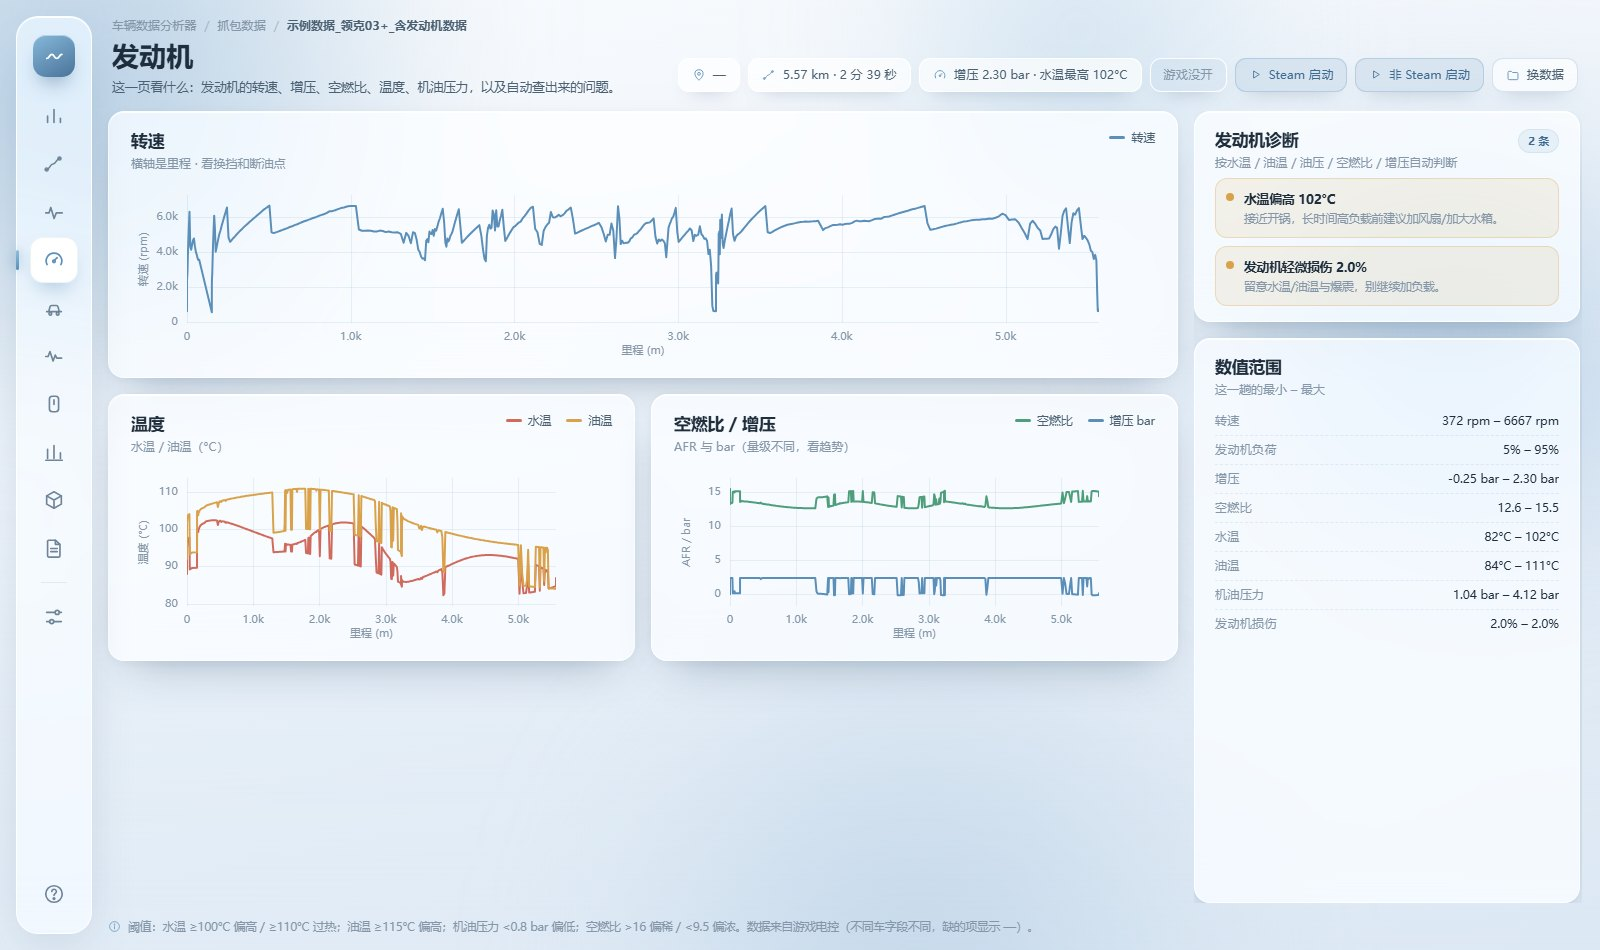
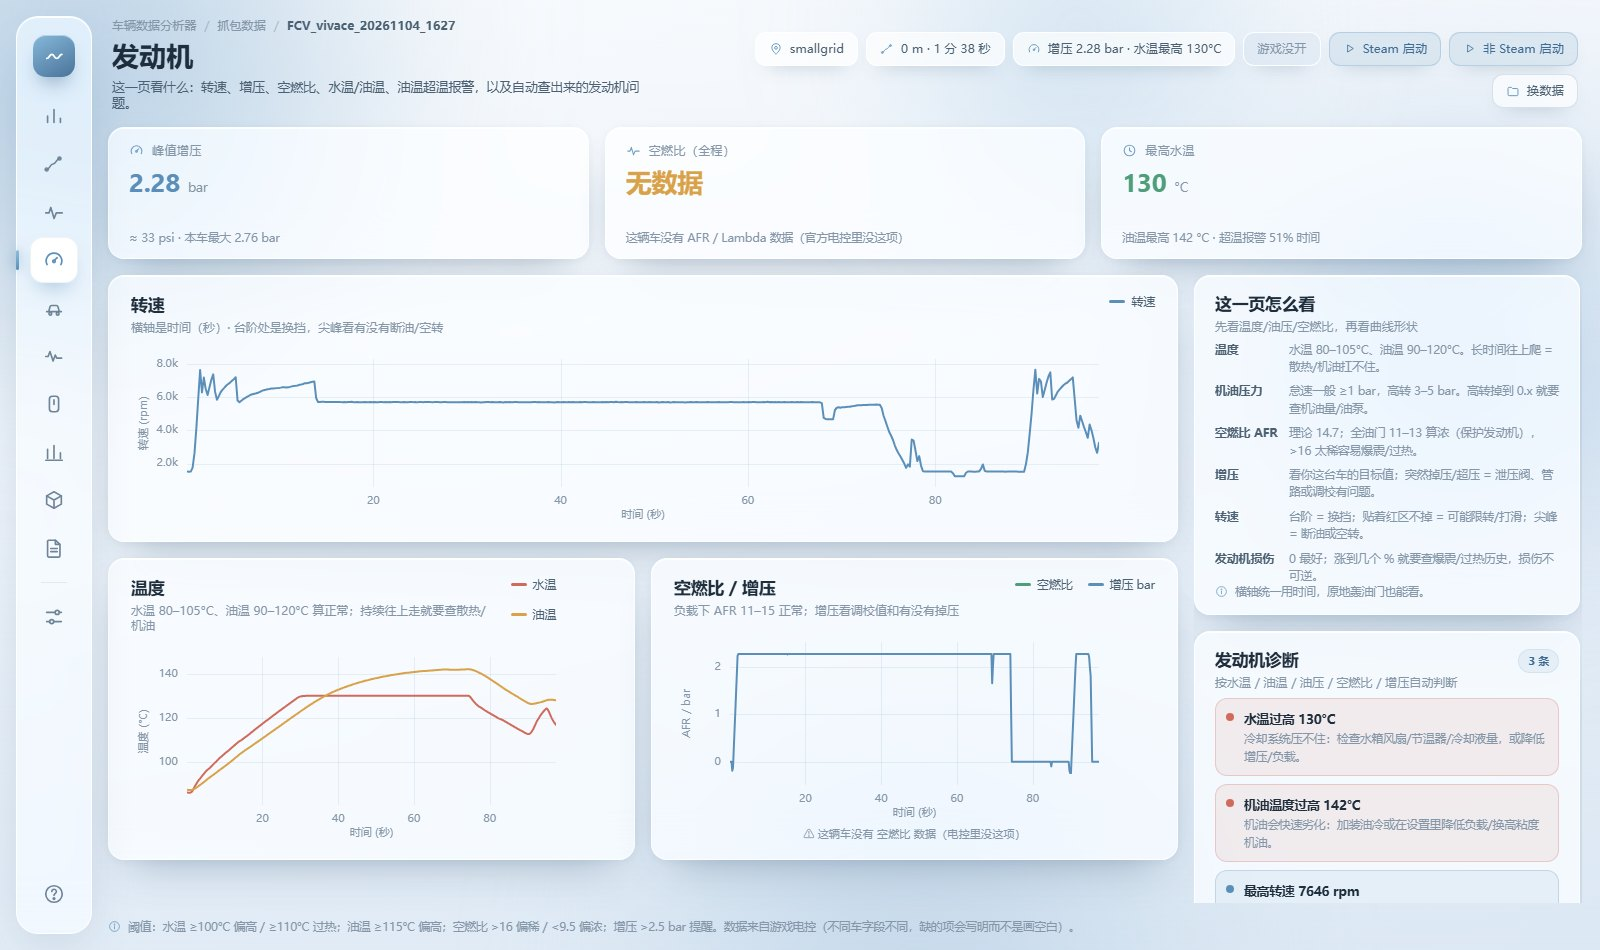
fix(engine): 时间轴 + 怎么看说明 + 按官方单位(PSI/油温报警)修正映射

diff --git a/webui_parts/p_engine.py b/webui_parts/p_engine.py
@@ -10,7 +10,7 @@ LABEL = "发动机"
 ICON = "gauge"
 TITLE = "发动机"
 BADGE = ""
-SUB = "这一页看什么：发动机的转速、增压、空燃比、温度、机油压力，以及自动查出来的问题。"
+SUB = "这一页看什么：转速、增压、空燃比、水温/油温、油温超温报警，以及自动查出来的发动机问题。"
 ORDER = 3.5
 
 
@@ -49,10 +49,13 @@ def _stats_html(d):
     from .common import IC
     eng = d.get("engine") or {}
     st = eng.get("stats") or {}
+    fields = eng.get("fields") or {}
     boost = st.get("boost") or {}
+    boost_psi = st.get("boost_psi") or {}
     afr = st.get("afr") or {}
     water = st.get("water") or {}
-    oilp = st.get("oilp") or {}
+    oil = st.get("oil") or {}
+    oa = st.get("oilalarm") or {}
     rpm = st.get("rpm") or {}
     cards = []
 
@@ -65,14 +68,36 @@ def _stats_html(d):
             % (tone, IC[icon], label, value, unit, foot))
 
     card("#5B8FB9", "gauge", "峰值增压", _fmt(boost.get("max"), "", 2), "bar",
-         "@ 全程最大值" if boost else "这份数据没有增压字段")
+         ("≈ %.0f psi · 本车最大 %.2f bar" % (boost_psi.get("max", 0),
+                                             (st.get("boostmax") or {}).get("bar", 0))) if boost
+         else "这辆车没有增压数据（自然吸气/柴油 NA 常见）")
     card("#D9A24A", "pulse", "空燃比（全程）",
-         (_fmt(afr.get("min"), "", 1) + "–" + _fmt(afr.get("max"), "", 1)) if afr else "—",
-         "AFR", "负载下 11–15 为正常范围" if afr else "没有 AFR / Lambda 字段")
+         (_fmt(afr.get("min"), "", 1) + "–" + _fmt(afr.get("max"), "", 1)) if afr else "无数据",
+         ("AFR" if afr else ""), "负载下 11–15 为正常范围" if afr else "这辆车没有 AFR / Lambda 数据（官方电控里没这项）")
     card("#4E9E7B", "clock", "最高水温", _fmt(water.get("max"), "", 0), "°C",
-         ("机油压力最低 %s bar" % _fmt(oilp.get("min"), "", 2)) if oilp else
-         ("最高转速 %.0f rpm" % (rpm.get("max") or 0)) if rpm else "没有温度字段")
+         ("油温最高 %s °C%s" % (_fmt(oil.get("max"), "", 0),
+                                " · 超温报警 %.0f%% 时间" % oa["pct"] if oa.get("pct") is not None else ""))
+         if oil else ("最高转速 %.0f rpm" % (rpm.get("max") or 0)) if rpm else "没有温度字段")
     return '<section class="stats">%s</section>' % "".join(cards)
+
+def _howto_card(d):
+    from .common import IC
+    items = [
+        ("温度", "水温 80–105°C、油温 90–120°C。长时间往上爬 = 散热/机油扛不住。"),
+        ("机油压力", "怠速一般 ≥1 bar，高转 3–5 bar。高转掉到 0.x 就要查机油量/油泵。"),
+        ("空燃比 AFR", "理论 14.7；全油门 11–13 算浓（保护发动机），>16 太稀容易爆震/过热。"),
+        ("增压", "看你这台车的目标值；突然掉压/超压 = 泄压阀、管路或调校有问题。"),
+        ("转速", "台阶 = 换挡；贴着红区不掉 = 可能限转/打滑；尖峰 = 断油或空转。"),
+        ("发动机损伤", "0 最好；涨到几个 % 就要查爆震/过热历史，损伤不可逆。"),
+    ]
+    rows = "".join('<div class="eng-how-row"><b>%s</b><span>%s</span></div>' % (k, v)
+                   for k, v in items)
+    return """
+      <article class="card eng-how-card">
+        <div class="panel-head"><div><h2>这一页怎么看</h2><p>先看温度/油压/空燃比，再看曲线形状</p></div></div>
+        %s
+        <div class="hint">%s<span>横轴统一用时间，原地轰油门也能看。</span></div>
+      </article>""" % (rows, IC["info"])
 
 
 def _problems_card(d):
@@ -112,7 +137,7 @@ def _values_card(d):
         ("空燃比", rng("afr", "", 1)),
         ("水温", rng("water", "°C", 0)),
         ("油温", rng("oil", "°C", 0)),
-        ("机油压力", rng("oilp", " bar", 2)),
+        ("机油超温报警", ("%.0f%% 时间" % st["oilalarm"]["pct"]) if st.get("oilalarm", {}).get("pct") is not None else "—"),
         ("发动机损伤", rng("damage", "%", 1)),
     ]
     kv = "".join('<div class="kv-row"><dt>%s</dt><dd>%s</dd></div>' % (k, v) for k, v in rows)
@@ -151,24 +176,29 @@ def render(d):
     lg_temp = legend([("水温", "#D06A5C", False), ("油温", "#D9A24A", False)])
     lg_fuel = legend([("空燃比", "#4E9E7B", False), ("增压 bar", "#5B8FB9", False)])
 
-    charts = _chart_card("chart-eng-rpm", "转速", "横轴是里程 · 看换挡和断油点",
+    charts = _chart_card("chart-eng-rpm", "转速", "横轴是时间（秒）· 台阶处是换挡，尖峰看有没有断油/空转",
                          lg_rpm)
     charts2 = ('<div class="eng-two">%s%s</div>'
-               % (_chart_card("chart-eng-temp", "温度", "水温 / 油温（°C）", lg_temp),
-                  _chart_card("chart-eng-fuel", "空燃比 / 增压", "AFR 与 bar（量级不同，看趋势）",
+               % (_chart_card("chart-eng-temp", "温度", "水温 80–105°C、油温 90–120°C 算正常；持续往上走就要查散热/机油", lg_temp),
+                  _chart_card("chart-eng-fuel", "空燃比 / 增压", "负载下 AFR 11–15 正常；增压看调校值和有没有掉压",
                               lg_fuel)))
     left = '<div class="eng-left">%s%s</div>' % (charts, charts2)
-    side = "%s%s" % (_problems_card(d), _values_card(d))
-    body = ('<section class="grid">%s<aside class="side">%s</aside></section>'
-            % (left, side))
+    side = "%s%s%s" % (_howto_card(d), _problems_card(d), _values_card(d))
     note = ('<div class="hint">%s<span>阈值：水温 ≥100°C 偏高 / ≥110°C 过热；油温 ≥115°C 偏高；'
-            '机油压力 &lt;0.8 bar 偏低；空燃比 &gt;16 偏稀 / &lt;9.5 偏浓。'
-            '数据来自游戏电控（不同车字段不同，缺的项显示 —）。</span></div>' % IC["info"])
+            '空燃比 &gt;16 偏稀 / &lt;9.5 偏浓；增压 &gt;2.5 bar 提醒。'
+            '数据来自游戏电控（不同车字段不同，缺的项会写明而不是画空白）。</span></div>' % IC["info"])
     return ('<section class="page" data-page="%s" data-title="%s">\n%s'
-            '<section class="page-body">%s%s</section>\n</section>' % (KEY, TITLE, head, body, note))
+            '<section class="page-body">%s'
+            '<section class="grid">%s<aside class="side">%s</aside></section>'
+            '%s</section>\n</section>'
+            % (KEY, TITLE, head, _stats_html(d), left, side, note))
 
 
 CSS = """
+[data-page="engine"] .eng-how-card{flex:0 0 auto}
+[data-page="engine"] .eng-how-row{display:flex;gap:8px;margin-top:7px;font-size:11.6px;line-height:1.5}
+[data-page="engine"] .eng-how-row b{flex:0 0 66px;color:var(--ink-2);font-size:11.8px}
+[data-page="engine"] .eng-how-row span{color:var(--muted)}
 [data-page="engine"] .eng-left{display:flex;flex-direction:column;gap:16px;min-height:0}
 [data-page="engine"] .eng-chart{min-height:220px}
 [data-page="engine"] .eng-two{display:grid;grid-template-columns:1fr 1fr;gap:16px}
@@ -198,15 +228,27 @@ window.PAGE_INIT.engine = function (root, DATA) {
   function mount(id, cfg) {
     var el = root.querySelector('#' + id);
     if (!el) return;
-    if (!cfg.series || !cfg.series.length) {
-      el.innerHTML = '<div class="hint" style="justify-content:center">这份数据没有对应字段</div>';
+    var missing = (cfg.series || []).filter(function (s) { return !s.data || !s.data.length; })
+      .map(function (s) { return s.name; });
+    var usable = (cfg.series || []).filter(function (s) { return s.data && s.data.length; });
+    if (!usable.length) {
+      var names = (cfg.series || []).map(function (s) { return s.name; }).join(' / ');
+      el.innerHTML = '<div class="hint" style="justify-content:center;text-align:center">'
+        + '这辆车没有 ' + (names || '这些') + ' 数据（BeamNG 电控里没这项，不是程序坏了）</div>';
       return;
     }
     ChartKit.mount(el, cfg);
+    if (missing.length) {
+      var tip = document.createElement('div');
+      tip.className = 'hint';
+      tip.style.cssText = 'justify-content:center;font-size:11.2px;margin-top:4px';
+      tip.textContent = '⚠ 这辆车没有 ' + missing.join(' / ') + ' 数据（电控里没这项）';
+      el.parentNode.insertBefore(tip, el.nextSibling);
+    }
   }
   mount('chart-eng-rpm', {
     series: [{name: '转速', color: '#5B8FB9', width: 2, data: ser.rpm || []}],
-    x: {label: '里程 (m)', fmt: function (v) { return v.toFixed(0) + ' m'; }},
+    x: {label: '时间 (秒)', fmt: function (v) { return v.toFixed(1) + ' s'; }},
     y1: {label: '转速 (rpm)'}
   });
   mount('chart-eng-temp', {
@@ -214,7 +256,7 @@ window.PAGE_INIT.engine = function (root, DATA) {
       {name: '水温', color: '#D06A5C', width: 2, data: ser.water || []},
       {name: '油温', color: '#D9A24A', width: 2, data: ser.oil || []}
     ],
-    x: {label: '里程 (m)', fmt: function (v) { return v.toFixed(0) + ' m'; }},
+    x: {label: '时间 (秒)', fmt: function (v) { return v.toFixed(1) + ' s'; }},
     y1: {label: '温度 (°C)'}
   });
   mount('chart-eng-fuel', {
@@ -222,7 +264,7 @@ window.PAGE_INIT.engine = function (root, DATA) {
       {name: '空燃比', color: '#4E9E7B', width: 2, data: ser.afr || []},
       {name: '增压', color: '#5B8FB9', width: 2, data: ser.boost || []}
     ],
-    x: {label: '里程 (m)', fmt: function (v) { return v.toFixed(0) + ' m'; }},
+    x: {label: '时间 (秒)', fmt: function (v) { return v.toFixed(1) + ' s'; }},
     y1: {label: 'AFR / bar'}
   });
 };

diff --git a/beamng_data.py b/beamng_data.py
@@ -675,6 +675,7 @@ _ENG_SYN = {
               "water_temperature", "coolant_temperature"),
     "oil": ("oil_temp", "oiltemp", "oil_temperature"),
     "oilp": ("oil_pressure", "oilpressure", "oil_press", "oilpressurebar"),
+    "oilalarm": ("oil",),
     "load": ("engine_load", "engineload", "load", "engine_load_value"),
     "throttle": ("throttle", "throttle_input", "throttleposition"),
     "damage": ("engine_damage", "engine_damage_ratio", "enginehealth",
@@ -737,12 +738,14 @@ def analyze_engine(rows, g):
     res["has"] = True
 
     def series_of(field, step=1):
+        # 横轴用时间：发动机数据按时间看更直观，原地轰油门/短距离也能画开
         out = []
         for i in range(0, len(rows), step):
             v = _eng_pick(parsed[i], rows[i], field)
             if v is None:
                 continue
-            out.append([round(float(g(rows[i], "d")), 1), round(float(v), 3)])
+            tt = g(rows[i], "t")
+            out.append([round(float(tt), 2), round(float(v), 3)])
         return out
 
     raw = {k: series_of(k) for k in _ENG_SYN}
@@ -793,6 +796,25 @@ def analyze_engine(rows, g):
         if st:
             res["stats"][f] = st
 
+    # boost 原始值（PSI）也留一份给页面同时显示 psi/bar
+    raw_boost = [p[1] for p in raw.get("boost", [])]
+    if raw_boost:
+        # raw["boost"] 此时已经被换算成 bar，反推回 psi
+        res["stats"]["boost_psi"] = {"max": round(max(raw_boost) * 14.5038, 2),
+                                     "avg": round(sum(raw_boost) / len(raw_boost) * 14.5038, 2)}
+    bmax = None
+    for i in range(len(rows)):
+        e = parsed[i]
+        for k in ("boostmax", "turbo_boost_max", "turboboostmax"):
+            if k in e:
+                bmax = max(bmax or 0, e[k])
+    if bmax:
+        res["stats"]["boostmax"] = {"max": round(bmax, 2), "bar": round(bmax / 14.5038, 2)}
+    oa = res["stats"].get("oilalarm")
+    if oa:
+        res["stats"]["oilalarm"]["pct"] = round(sum(1 for v in col("oilalarm") if v > 0.5) / len(col("oilalarm")) * 100, 1)
+    res["fields"] = {f: (f in res["stats"]) for f in _ENG_SYN}
+
     # ── 诊断规则（阈值保守，只报明显异常）────────────────
     probs = res["problems"]
 
@@ -806,7 +828,7 @@ def analyze_engine(rows, g):
                 "冷却系统压不住：检查水箱风扇/节温器/冷却液量，或降低增压/负载。")
         elif w["max"] >= 100:
             add("warn", "水温偏高 %.0f°C" % w["max"],
-                "接近开锅，长时间高负载前建议加风扇/加大水箱。")
+                "接近开锅；原地轰油门没有迎面风也会升温，跑起来能降下来就问题不大。")
     o = res["stats"].get("oil")
     if o:
         if o["max"] >= 130:
